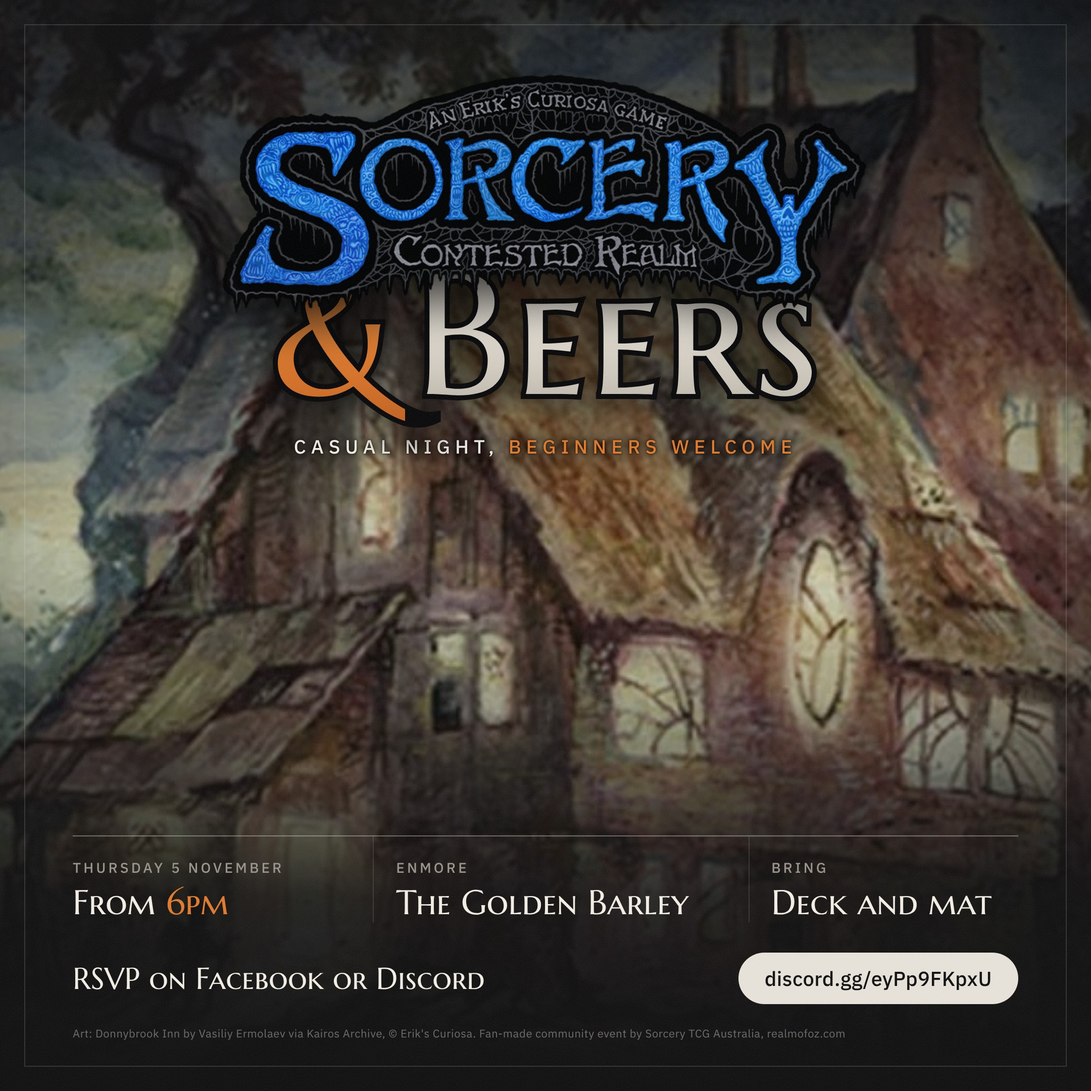
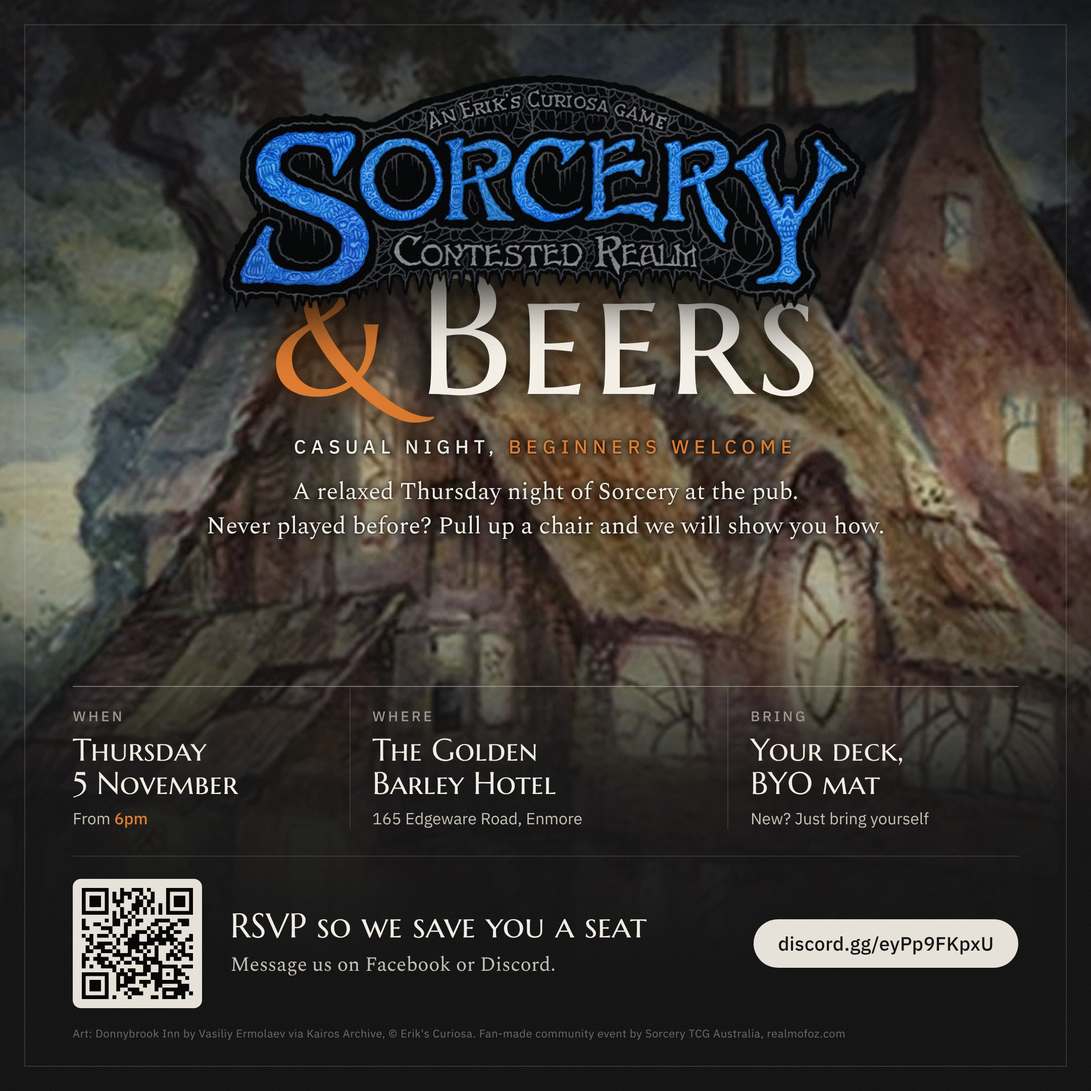
Return the square post to the plain lockup, with more detail and the QR
"& Beers" goes back to parchment with the ember ampersand, hung from the
logo's drips. The standfirst, the address and BYO mat lines and the
Discord QR code are back.

Claude-Session: https://claude.ai/code/session_01ErFr7oUEjawLecSonZULzD

diff --git a/posters/sorcery-and-beers/square.html b/posters/sorcery-and-beers/square.html
@@ -9,7 +9,7 @@
      hairline row. Rendered by render.cjs. -->
 <link rel="preconnect" href="https://fonts.googleapis.com">
 <link rel="preconnect" href="https://fonts.gstatic.com" crossorigin>
-<link href="https://fonts.googleapis.com/css2?family=IBM+Plex+Sans:wght@400;500;600&family=Marcellus+SC&display=block" rel="stylesheet">
+<link href="https://fonts.googleapis.com/css2?family=IBM+Plex+Sans:wght@400;500;600&family=Marcellus+SC&family=Spectral:ital,wght@0,400;1,400&display=block" rel="stylesheet">
 <style>
   :root {
     --ink: #0f0f10;
@@ -20,12 +20,13 @@
     --line: rgba(232, 227, 218, 0.14);
     --line-3: rgba(232, 227, 218, 0.4);
     --font-display: 'Marcellus SC', serif;
+    --font-text: 'Spectral', Georgia, serif;
     --font-info: 'IBM Plex Sans', 'Helvetica Neue', Arial, sans-serif;
   }
   * { box-sizing: border-box; }
   html, body { margin: 0; padding: 0; background: var(--ink); }
   body { -webkit-font-smoothing: antialiased; }
-  h1, p { margin: 0; }
+  h1, h2, p { margin: 0; }
 
   .square {
     position: relative; overflow: hidden; isolation: isolate;
@@ -55,7 +56,7 @@
   .scene-shade {
     position: absolute; inset: 0;
     background:
-      linear-gradient(180deg, rgba(15, 15, 16, 0.75) 0%, rgba(15, 15, 16, 0.35) 30%, rgba(15, 15, 16, 0.08) 50%, rgba(15, 15, 16, 0.25) 64%, rgba(15, 15, 16, 0.88) 82%, var(--ink) 100%),
+      linear-gradient(180deg, rgba(15, 15, 16, 0.75) 0%, rgba(15, 15, 16, 0.35) 28%, rgba(15, 15, 16, 0.12) 44%, rgba(15, 15, 16, 0.3) 56%, rgba(15, 15, 16, 0.9) 72%, var(--ink) 90%),
       radial-gradient(ellipse 75% 70% at 50% 45%, transparent 55%, rgba(15, 15, 16, 0.7) 100%);
   }
   .square::after {
@@ -73,42 +74,35 @@
   .title {
     position: relative; z-index: 1; margin-top: -58px;
     font-family: var(--font-display); font-weight: 400; font-size: 170px; line-height: 0.9; letter-spacing: 0.02em;
-    filter: drop-shadow(0 8px 18px rgba(0, 0, 0, 0.9));
+    color: #f6f1e8;
+    text-shadow: 0 6px 22px rgba(0, 0, 0, 0.9), 0 0 60px rgba(15, 15, 16, 0.7);
   }
-  /* lettered like "Contested Realm" in the logo: weathered silver over an
-     inked outline. The outline is a copy of the word drawn behind, so the
-     stroke never eats into the letters. */
-  .title span { position: relative; display: inline-block; }
-  .title span::before {
-    content: attr(data-t); position: absolute; left: 0; top: 0; z-index: -1;
-    color: #08080a; -webkit-text-stroke: 10px #08080a;
-  }
-  .title span i {
-    font-style: normal; color: transparent;
-    background: linear-gradient(180deg, #fbf7ef 0%, #e4ded3 50%, #aaa397 100%);
-    -webkit-background-clip: text; background-clip: text;
-  }
-  .title .amp { margin-right: 0.06em; }
-  .title .amp i { background-image: linear-gradient(180deg, #f6a457 0%, #e07a2c 60%, #b85a1e 100%); }
+  .title .amp { color: var(--ember); margin-right: 0.08em; text-shadow: 0 0 34px rgba(224, 122, 44, 0.55), 0 6px 22px rgba(0, 0, 0, 0.9); }
   .eyebrow { margin-top: 22px; font-family: var(--font-info); font-weight: 500; font-size: 19px; letter-spacing: 0.26em; text-transform: uppercase; color: #f3eee5;
     text-shadow: 0 0 2px rgba(0, 0, 0, 0.9), 0 0 8px rgba(0, 0, 0, 0.95), 0 0 22px rgba(15, 15, 16, 0.95), 0 0 40px rgba(15, 15, 16, 0.9); }
   .eyebrow b { font-weight: 500; color: var(--ember); }
+  .standfirst { margin-top: 16px; max-width: 760px; text-align: center; font-family: var(--font-text); font-size: 24px; line-height: 1.45; color: #f3eee5; text-wrap: balance;
+    text-shadow: 0 0 3px rgba(0, 0, 0, 0.9), 0 0 12px rgba(0, 0, 0, 0.95), 0 0 30px rgba(15, 15, 16, 0.95); }
 
   /* ---------- the facts, one hairline row ---------- */
-  .facts { margin-top: auto; width: 100%; display: grid; grid-template-columns: 1fr 1.25fr 0.9fr; border-top: 1px solid var(--line-3); }
-  .fact { padding: 22px 22px 0; text-align: left; }
+  .facts { margin-top: auto; width: 100%; display: grid; grid-template-columns: 0.95fr 1.3fr 1fr; border-top: 1px solid var(--line-3); }
+  .fact { padding: 20px 22px 0; text-align: left; }
   .fact:first-child { padding-left: 0; }
   .fact + .fact { border-left: 1px solid var(--line); }
   .label { font-family: var(--font-info); font-weight: 500; font-size: 14px; letter-spacing: 0.18em; text-transform: uppercase; color: var(--parch-muted); }
-  .value { margin-top: 8px; font-family: var(--font-display); font-size: 34px; line-height: 1.08; color: #f3eee5; }
-  .value b { font-weight: 400; color: var(--ember); }
+  .value { margin-top: 8px; font-family: var(--font-display); font-size: 31px; line-height: 1.08; color: #f3eee5; }
+  .sub { margin-top: 6px; font-family: var(--font-info); font-size: 16px; line-height: 1.4; color: var(--parch-soft); }
+  .sub b { font-weight: 500; color: var(--ember); }
 
-  .rsvp { margin-top: 30px; width: 100%; display: flex; align-items: center; justify-content: space-between; gap: 24px; }
-  .rsvp p { font-family: var(--font-display); font-size: 30px; color: #f3eee5; }
-  .pill { padding: 12px 26px; border-radius: 999px; background: var(--parchment); color: var(--ink);
-    font-family: var(--font-info); font-weight: 500; font-size: 20px; letter-spacing: 0.01em; }
+  .rsvp { margin-top: 26px; width: 100%; display: flex; align-items: center; gap: 28px; padding-top: 22px; border-top: 1px solid var(--line); }
+  .qr { flex: none; width: 128px; height: 128px; padding: 9px; border-radius: 8px; background: var(--parchment); }
+  .qr img { display: block; width: 100%; height: 100%; }
+  .rsvp h2 { margin: 0; font-family: var(--font-display); font-weight: 400; font-size: 34px; line-height: 1.05; color: #f3eee5; }
+  .rsvp p { margin-top: 6px; font-family: var(--font-text); font-size: 20px; line-height: 1.4; color: var(--parch-soft); }
+  .pill { flex: none; margin-left: auto; padding: 12px 24px; border-radius: 999px; background: var(--parchment); color: var(--ink);
+    font-family: var(--font-info); font-weight: 500; font-size: 19px; letter-spacing: 0.01em; }
 
-  .credit { margin-top: 22px; width: 100%; font-family: var(--font-info); font-size: 11px; letter-spacing: 0.03em; color: rgba(232, 227, 218, 0.42); }
+  .credit { margin-top: 18px; width: 100%; font-family: var(--font-info); font-size: 11px; letter-spacing: 0.03em; color: rgba(232, 227, 218, 0.42); }
 </style>
 </head>
 <body>
@@ -121,27 +115,35 @@
 
   <div class="layout lockup">
     <img class="logo" src="assets/sorcery-logo.png" alt="Sorcery: Contested Realm">
-    <h1 class="title"><span class="amp" data-t="&amp;"><i>&amp;</i></span><span data-t="Beers"><i>Beers</i></span></h1>
+    <h1 class="title"><span class="amp">&amp;</span>Beers</h1>
     <p class="eyebrow">Casual night, <b>beginners welcome</b></p>
+    <p class="standfirst">A relaxed Thursday night of Sorcery at the pub.<br>Never played before? Pull up a chair and we will show you how.</p>
   </div>
 
   <div class="layout facts">
     <div class="fact">
-      <p class="label">Thursday 5 November</p>
-      <p class="value">From <b>6pm</b></p>
+      <p class="label">When</p>
+      <p class="value">Thursday<br>5 November</p>
+      <p class="sub">From <b>6pm</b></p>
     </div>
     <div class="fact">
-      <p class="label">Enmore</p>
-      <p class="value">The Golden Barley</p>
+      <p class="label">Where</p>
+      <p class="value">The Golden<br>Barley Hotel</p>
+      <p class="sub">165 Edgeware Road, Enmore</p>
     </div>
     <div class="fact">
       <p class="label">Bring</p>
-      <p class="value">Deck and mat</p>
+      <p class="value">Your deck,<br>BYO mat</p>
+      <p class="sub">New? Just bring yourself</p>
     </div>
   </div>
 
   <div class="layout rsvp">
-    <p>RSVP on Facebook or Discord</p>
+    <div class="qr"><img src="assets/discord-qr.svg" alt="QR code to the Sorcery TCG Australia Discord"></div>
+    <div>
+      <h2>RSVP so we save you a seat</h2>
+      <p>Message us on Facebook or Discord.</p>
+    </div>
     <span class="pill">discord.gg/eyPp9FKpxU</span>
   </div>
 
